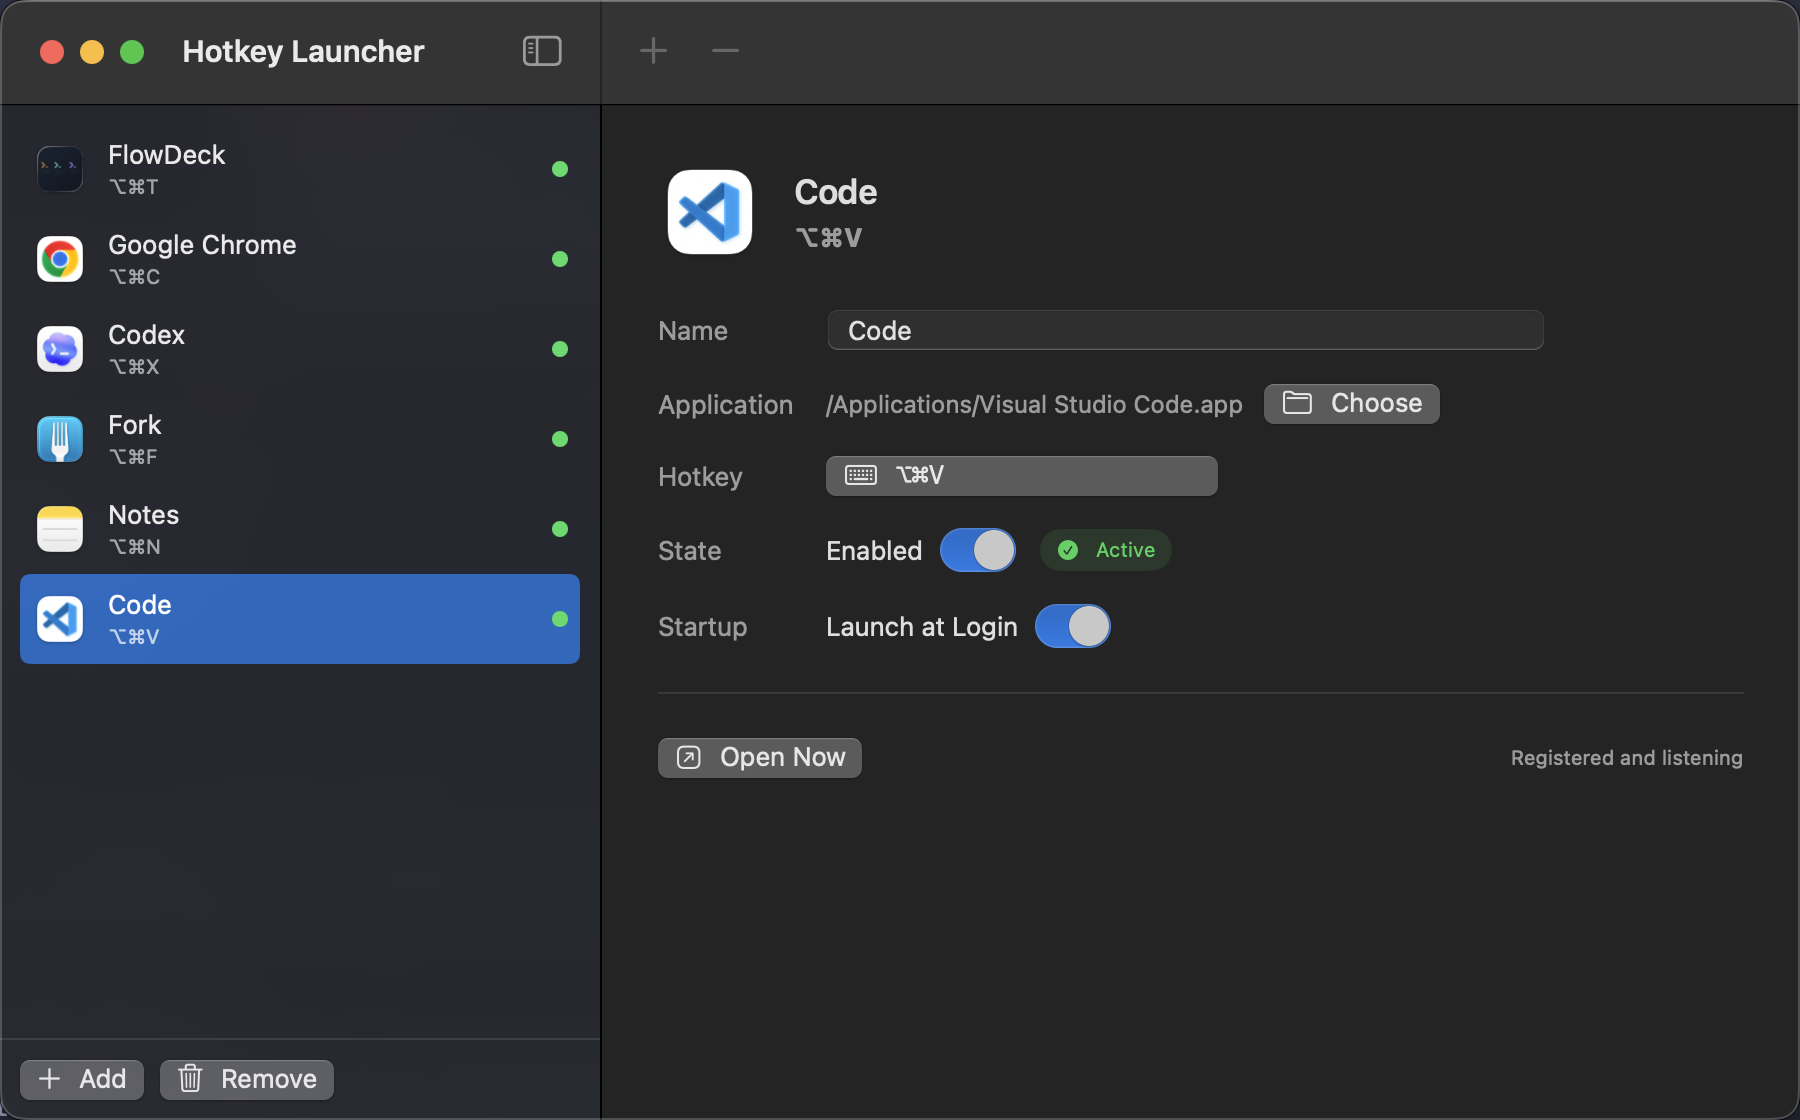
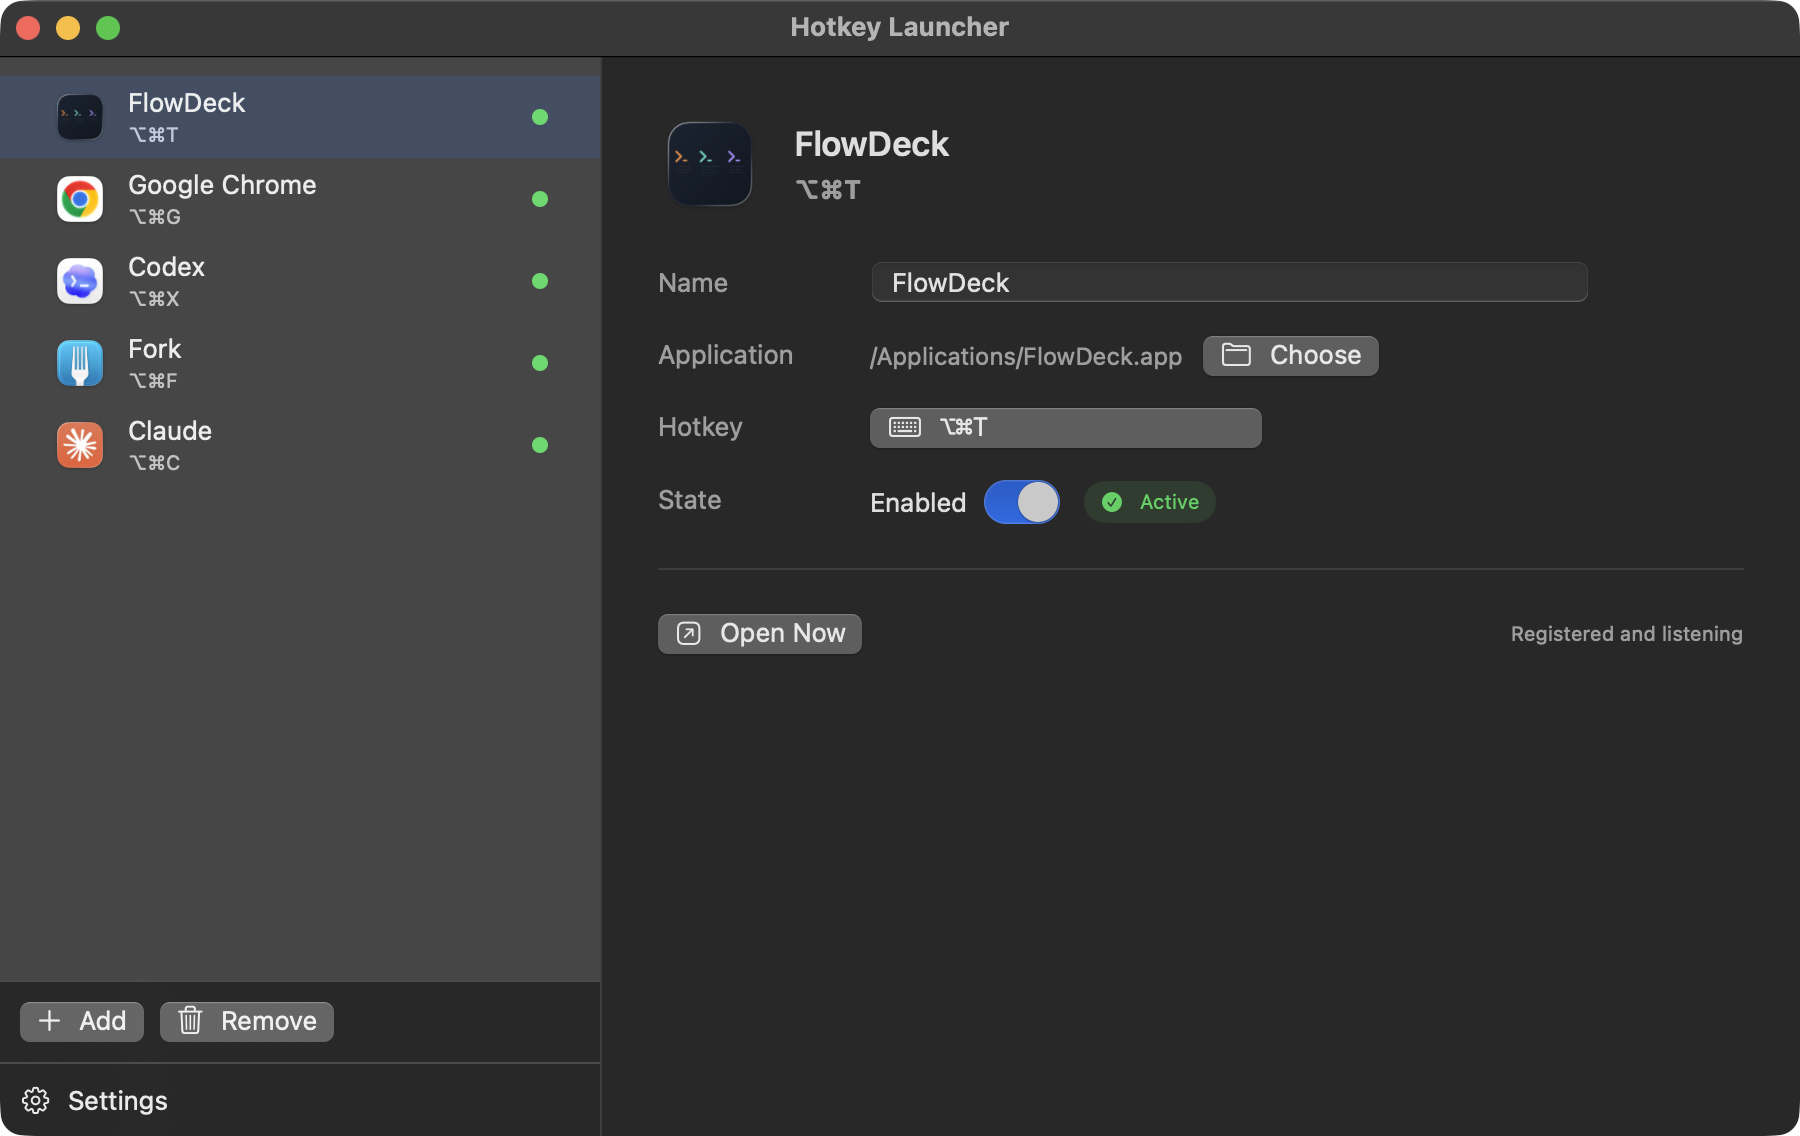
Refresh README with current UI and install guide
Replace the screenshot with the v1.0.10 main window, document the
features and install flow including the Gatekeeper workaround for
ad-hoc signed builds, and move the import/export and update-check
descriptions from the sidebar to the Settings page where they live now.

diff --git a/README.md b/README.md
@@ -1,10 +1,34 @@
 # HotkeyLauncher
 
-Native macOS hotkey launcher built with SwiftUI, AppKit, and Carbon global hotkeys.
+Native macOS hotkey launcher built with SwiftUI, AppKit, and Carbon global hotkeys. Assign a global hotkey to any application and jump to it from anywhere.
 
 Requires macOS 12 or later. Building from source requires Swift 5.7 or later.
 
-![demo](./hotkey-launcher.png)
+![HotkeyLauncher main window](./hotkey-launcher.png)
+
+## Features
+
+- System-wide global hotkeys registered through Carbon
+- Sidebar shortcut list with live registration status
+- Menu bar extra for launching shortcuts and reopening the main window
+- Settings page with **Launch at Login** and window-activation behavior
+- Import and export of shortcuts plus global settings as a JSON package
+- In-app update check and download from GitHub Releases
+
+## Install
+
+Download the latest DMG from [GitHub Releases](https://github.com/zjy4fun/HotkeyLauncher/releases), open it, and drag **HotkeyLauncher.app** into **Applications**.
+
+Release builds are ad-hoc signed (no Apple Developer ID), so after a browser
+download Gatekeeper may warn that the developer cannot be verified. Either
+right-click the app and choose **Open** once, or clear the quarantine flag:
+
+```bash
+xattr -dr com.apple.quarantine /Applications/HotkeyLauncher.app
+```
+
+Updating through the app itself (Settings → Updates → Download) does not set
+the quarantine flag, so in-app updates open without the warning.
 
 ## Build and Run
 
@@ -24,22 +48,25 @@ Global settings are stored at:
 ~/Library/Application Support/HotkeyLauncher/settings.json
 ```
 
+## Settings
+
 Enable **New window when none are visible** to apply the behavior to all
 shortcuts. When a target app is already running but has no visible regular
 windows, HotkeyLauncher activates it and sends `Command+N` so apps like Chrome
 create a window instead of appearing to do nothing. macOS may require
 Accessibility permission for HotkeyLauncher to send that keystroke.
 
-Use **Import** and **Export** in the sidebar to move shortcuts and global
-settings between machines. The exported file is a JSON package containing the
-shortcut list plus app-level settings.
+Use **Import** and **Export** on the Settings page to move shortcuts and
+global settings between machines. The exported file is a JSON package
+containing the shortcut list plus app-level settings.
 
-The sidebar shows the current app version and can check GitHub Releases for a
-newer version. Release builds generated by the GitHub workflow embed the tag
-version, upload the DMG, and publish `latest.json` metadata for update checks.
-Branch builds upload the generated DMG as a GitHub Actions artifact.
+The Updates section of the Settings page shows the current app version and can
+check GitHub Releases for a newer version. Release builds generated by the
+GitHub workflow embed the tag version, upload the DMG, and publish
+`latest.json` metadata for update checks. Branch builds upload the generated
+DMG as a GitHub Actions artifact.
 
-Default shortcuts:
+## Default shortcuts
 
 - `Option+Command+T` -> `/Applications/FlowDeck.app`
 - `Option+Command+C` -> `/Applications/Google Chrome.app`